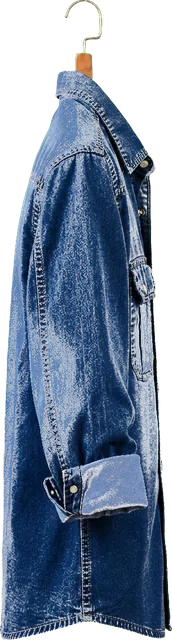
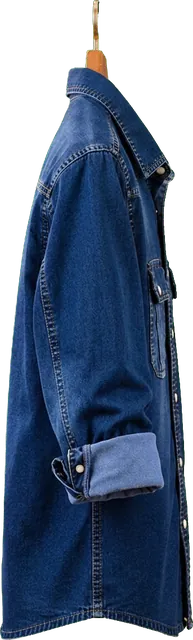
Home rails: 3D turn from side to front; green + denim side photos fixed
- Side photo swings away to the left, then the front swings in from the right (rotateY), eased
- New side photos: green shirt (buttons only in front), denim shirt (same colour as the front)
- AI prompt: keep the exact colour / wash; buttons only on the front edge in a side view

diff --git a/src/components/HangerRail.jsx b/src/components/HangerRail.jsx
@@ -198,7 +198,7 @@ export default function HangerRail({
             style={{ paddingTop: ROD_Y - 8, paddingBottom: 28 }}>
             {products.map((p, i) => (
               <div key={p.id} data-hang onTransitionEnd={update}
-                className={`relative shrink-0 transition-[width] duration-300 ease-out ${!p.cutout ? 'w-[118px] sm:w-[150px] lg:w-[172px]'
+                className={`relative shrink-0 transition-[width] duration-500 ease-in-out ${!p.cutout ? 'w-[118px] sm:w-[150px] lg:w-[172px]'
                   : (p.cutoutSide && hover !== i && tapped !== i) ? 'w-[78px] sm:w-[98px] lg:w-[112px]' : 'w-[136px] sm:w-[172px] lg:w-[196px]'}`}
                 style={{ marginTop: 'var(--sag, 0px)' }}>
                 <div className="kyvro-swing" style={{ animationDelay: `${-((i * 1.37) % 5.5)}s`, animationDuration: `${5 + (i % 3) * 0.6}s` }}>
@@ -220,16 +220,21 @@ export default function HangerRail({
                           {!p.cutoutHanger && (
                             <Hanger className={`relative z-[2] -mt-[2px] mx-auto block transition-all duration-300 ${front ? 'w-[62%]' : 'w-[22%]'}`} />
                           )}
-                          <div className={`relative h-[185px] sm:h-[235px] lg:h-[270px] w-full ${p.cutoutHanger ? '-mt-[3px]' : '-mt-[12px]'}`}>
+                          {/* the turn is a 3D spin: the side view swings away to the left while the front swings in from the
+                              right (every side photo shows the front of the piece pointing right), one after the other */}
+                          <div className={`relative h-[185px] sm:h-[235px] lg:h-[270px] w-full ${p.cutoutHanger ? '-mt-[3px]' : '-mt-[12px]'}`}
+                            style={p.cutoutSide ? { perspective: '900px' } : undefined}>
                             {p.cutoutSide && (
                               // sized by height (not width), so a wide side photo (a puffer jacket) hangs as tall as the shirts
                               <img src={p.cutoutSide} alt="" aria-hidden="true" loading="lazy" draggable={false}
-                                className={`absolute left-1/2 top-0 h-full w-auto max-w-none transition-transform duration-200 ease-in ${shadow}`}
-                                style={{ transform: `translateX(-50%) scaleX(${front ? 0 : 1})` }} />
+                                className={`absolute left-1/2 top-0 h-full w-auto max-w-none transition-transform duration-[260ms] ${shadow}`}
+                                style={{ transform: `translateX(-50%) rotateY(${front ? -90 : 0}deg)`, backfaceVisibility: 'hidden',
+                                  transitionTimingFunction: front ? 'cubic-bezier(.5,0,.9,.5)' : 'cubic-bezier(.1,.5,.5,1)', transitionDelay: front ? '0ms' : '260ms' }} />
                             )}
                             <img src={p.cutout} alt={p.name} loading="lazy" draggable={false}
-                              className={`absolute inset-0 h-full w-full object-contain object-top transition-transform duration-300 ease-out ${shadow}`}
-                              style={{ transform: `scaleX(${front ? 1 : 0})`, transitionDelay: front && p.cutoutSide ? '150ms' : '0ms' }} />
+                              className={`absolute inset-0 h-full w-full object-contain object-top transition-transform duration-[260ms] ${shadow}`}
+                              style={p.cutoutSide ? { transform: `rotateY(${front ? 0 : 90}deg)`, backfaceVisibility: 'hidden',
+                                transitionTimingFunction: front ? 'cubic-bezier(.1,.5,.5,1)' : 'cubic-bezier(.5,0,.9,.5)', transitionDelay: front ? '260ms' : '0ms' } : undefined} />
                           </div>
                         </>
                       );

diff --git a/api/_plan/aiphoto.js b/api/_plan/aiphoto.js
@@ -30,6 +30,8 @@ const BACKGROUNDS = {
   white: 'pure plain white (#FFFFFF)',
 };
 const keep = (bg) => 'Keep the exact same product: same colours, fabric, pattern, print, buttons, zips, stitching and every detail. '
+  + 'Keep the exact same colour, shade, tone and fabric wash as in the photo: do not make it lighter, darker, brighter or a different hue. '
+  + 'Buttons, pockets, zips and the placket stay only where they are on the real garment: in a side view the buttons are only on the front edge, never on the back or on both edges. '
   + 'Do not add, change, translate or invent any text, letters, numbers, logos or brand names; if a logo is not visible from this angle, leave that area plain. '
   + `No person, no mannequin, no hands, no props, no extra items. The whole background must be one ${bg} colour, with no shadow, no floor, no gradient, `
   + 'and that colour must not appear on the product or as a colour cast on it. '

diff --git a/src/data/cutouts.js b/src/data/cutouts.js
@@ -3,7 +3,7 @@
 // hanger: the photo already shows its own hanger (only a wire is drawn); color: the colour in the photo.
 // A product that is gone or sold out is skipped; a rail with fewer than 4 falls back to photo cards.
 // Photos uploaded in the Admin product form (Firestore "showcase") replace these or add more (HomeShowcase.jsx).
-export const CUTOUT_VERSION = 7; // bump when the pictures change (browser cache)
+export const CUTOUT_VERSION = 8; // bump when the pictures change (browser cache)
 export const cutoutSrc = (id) => `/cutouts/${id}.webp?v=${CUTOUT_VERSION}`;
 // side: true = there is also a side-on picture (public/cutouts/<id>-side.webp); the piece hangs side-on and turns to the front on hover / tap
 export const cutoutSideSrc = (id) => `/cutouts/${id}-side.webp?v=${CUTOUT_VERSION}`;
